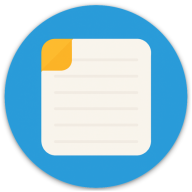
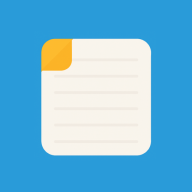
feat(metadata): update app description and manifest configuration
- Changed app description to "ぺらいちは、シンプルなメモサービスです。"
- Added description, language, and scope to the manifest
- Set icon purpose to "maskable"

Changed region(s): [[0.0, 0.0, 1.0, 1.0]]

diff --git a/src/app/manifest.ts b/src/app/manifest.ts
@@ -3,6 +3,7 @@ import type { MetadataRoute } from "next";
 export default function manifest(): MetadataRoute.Manifest {
   return {
     background_color: "#FFFFFF",
+    description: "ぺらいちは、シンプルなメモサービスです。",
     display: "standalone",
     icons: [
       {
@@ -12,13 +13,17 @@ export default function manifest(): MetadataRoute.Manifest {
         type: "image/png",
       },
       {
+        purpose: "maskable",
         sizes: "512x512",
         src: "/icon-512x512.png",
         type: "image/png",
       },
     ],
+    id: "/",
+    lang: "ja",
     name: "ぺらいち",
     orientation: "portrait",
+    scope: "/",
     short_name: "ぺらいち",
     start_url: "/",
     theme_color: "#FFFFFF",

diff --git a/src/app/layout.tsx b/src/app/layout.tsx
@@ -18,8 +18,7 @@ const notoSansJP = Noto_Sans_JP({
 const APP_NAME = "ぺらいち";
 const APP_DEFAULT_TITLE = "ぺらいち";
 const APP_TITLE_TEMPLATE = "%s - ぺらいち";
-const APP_DESCRIPTION =
-  "ぺらいちは、あなたのためのパーソナルな一枚のページです。";
+const APP_DESCRIPTION = "ぺらいちは、シンプルなメモサービスです。";
 
 export const metadata: Metadata = {
   appleWebApp: {
